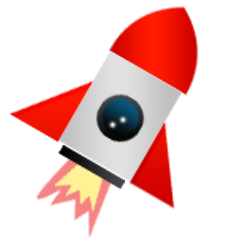
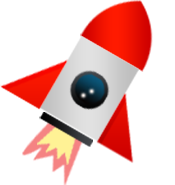
update styles

diff --git a/app/assets/stylesheets/style.css.scss b/app/assets/stylesheets/style.css.scss
@@ -317,19 +317,19 @@ input[type=text] {
 #head {
 	background: image-url('banner1.jpg') no-repeat;
 	background-size: cover;
-padding: 6.25em 1.875em 0 1.875em;
+padding: 4em 1.875em 0 1.875em;
 	#rocket {
 		background: image-url('rocket.png') no-repeat;
-		margin-left: 40em;
-		width: 230px;
-		height: 240px;
+		margin-left: 5em;
+		width: 175px;
+		height: 185px;
 	}
 }
 
 
 #mainbox {
 	margin-bottom: 4em;
-	padding: 1em;
+	padding: 0 1em 0.3em 1em;
 	background: rgb(255, 255, 255);
 	background: rgba(255, 255, 255, 0.8);
 	-webkit-border-radius: 3px;
@@ -373,18 +373,18 @@ padding: 6.25em 1.875em 0 1.875em;
 /* Content boxes */
 .contentbox {
 	background: #F7F0BA;
-	padding: 6.25em 1.875em 4em 1.875em;
+	padding: 4em 1.875em 4em 1.875em;
 
 }
 
 .secondarybox {
-	width: 40%;
+	width: 50%;
 	background: rgb(255, 255, 255);
 	background: rgba(255, 255, 255, 0.8);
 	-webkit-border-radius: 3px;
 	-moz-border-radius: 3px;
 	border-radius: 3px;
-	padding: 2em;
+	padding: 0.2em 1em 1em 1em;
 	text-align: center;
 	margin: 0 auto;
 }
